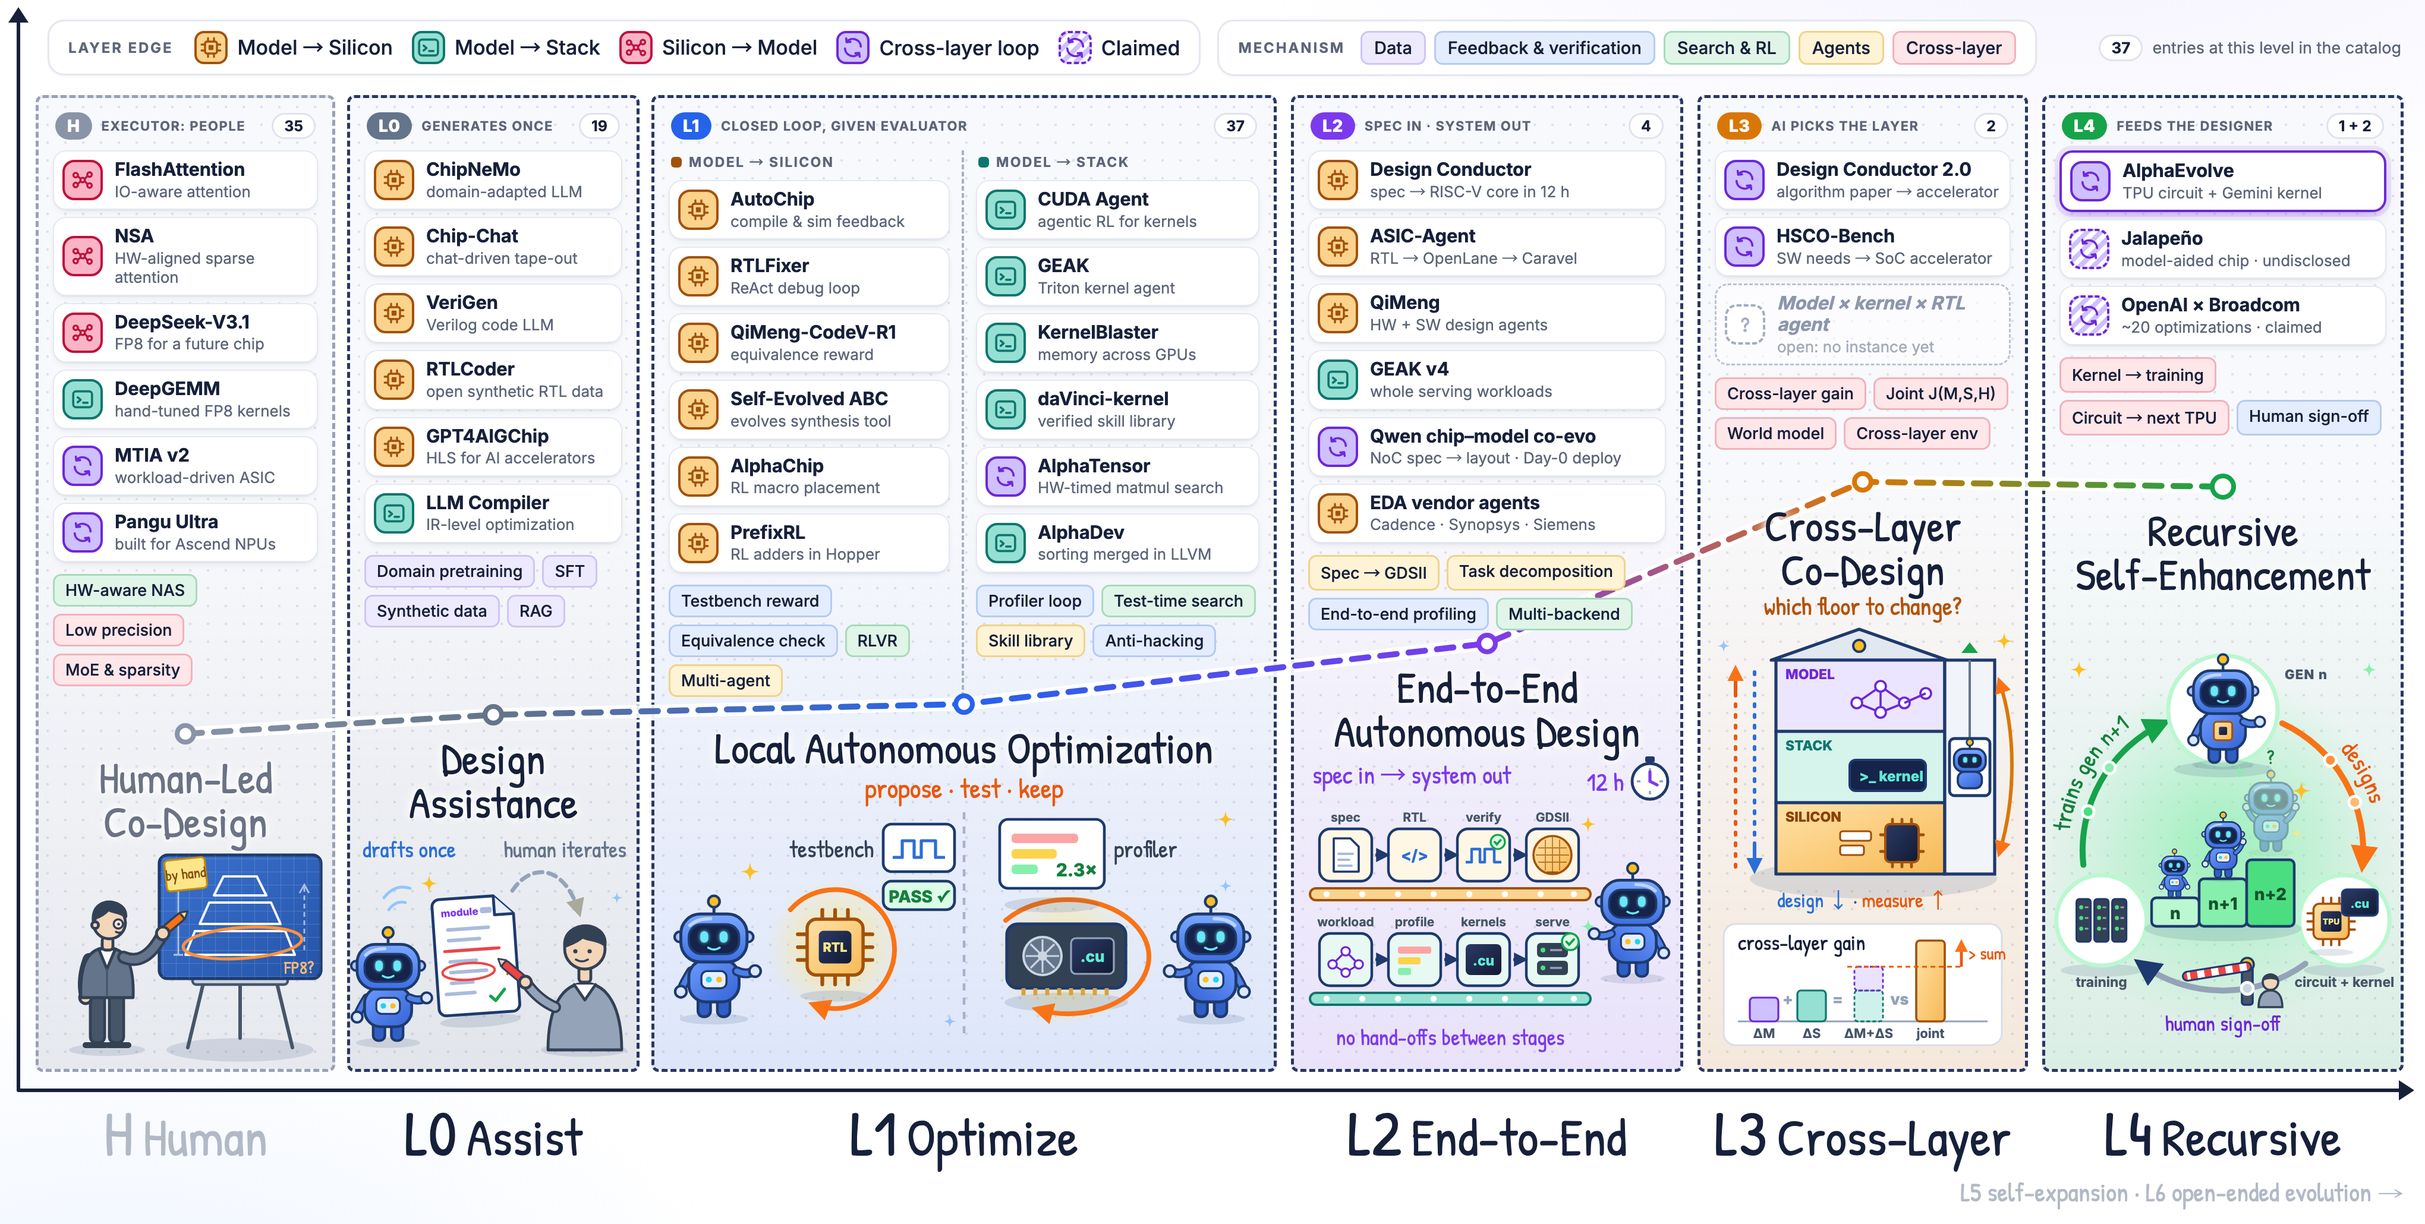
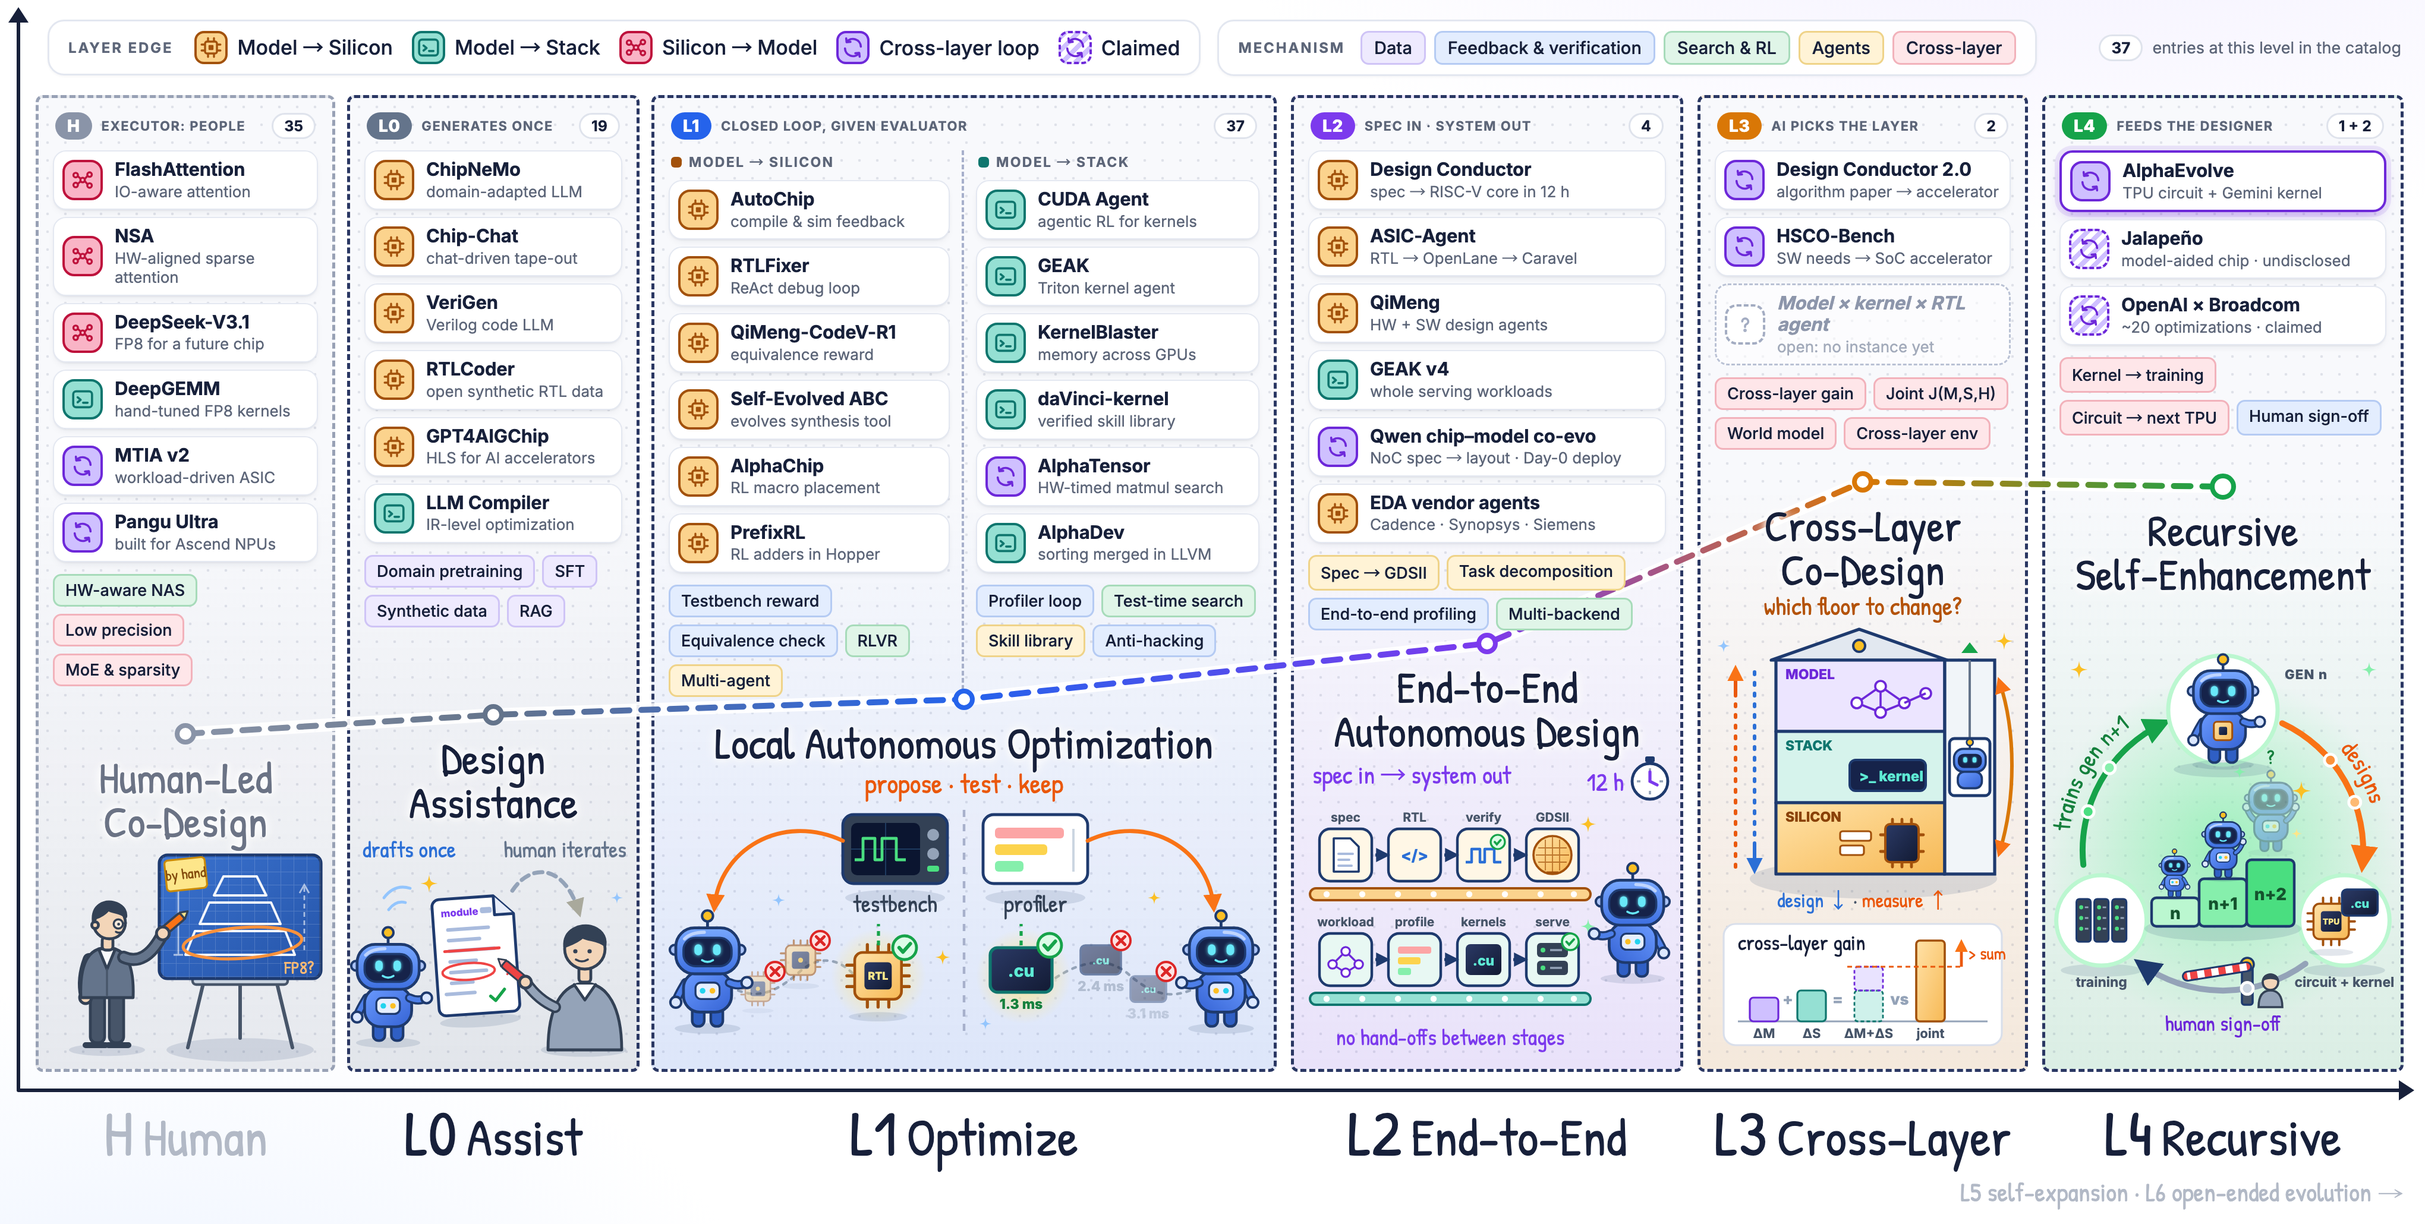
Redraw the L1 scene in Figure 1 as candidate search
Each side shows a stream of candidates (RTL chips, .cu kernels with
timings) rejected until one passes the testbench or profiler, with
feedback arcs back to the robots.

Changed region(s): [[0.2801, 0.5592, 0.5292, 0.8699], [0.4669, 0.5282, 0.5292, 0.5592]]

diff --git a/scripts/figures/overview.html b/scripts/figures/overview.html
@@ -402,47 +402,57 @@ const SCENES = {
       <circle cx="145" cy="131" r="5" fill="#f3d5b8"/>
     </g>
   </svg>`,
-  optimize: () => `<svg width="500" height="232" viewBox="0 0 500 232">
+  optimize: () => {
+    const no = (x, y) => `<g transform="translate(${x},${y})"><circle r="8" fill="#fee2e2" stroke="#dc2626" stroke-width="2"/><path d="M-3.4 -3.4l6.8 6.8M3.4 -3.4l-6.8 6.8" stroke="#dc2626" stroke-width="2.4" stroke-linecap="round"/></g>`;
+    const yes = (x, y) => `<g transform="translate(${x},${y})"><circle r="10" fill="#dcfce7" stroke="#16a34a" stroke-width="2.4"/><path d="M-4.6 0l3.2 3.6 6.2-7" stroke="#16a34a" stroke-width="3" fill="none" stroke-linecap="round" stroke-linejoin="round"/></g>`;
+    const kern = (x, y, w, ms, ok) => `<g transform="translate(${x},${y})">
+      <rect width="${w}" height="${w * 0.72}" rx="${w * 0.12}" fill="url(#gDie)" stroke="${ok ? '#0f766e' : NAVY}" stroke-width="${ok ? 2.6 : 1.8}"/>
+      <text x="${w / 2}" y="${w * 0.47}" text-anchor="middle" font-family="Inter" font-weight="800" font-size="${w * 0.27}" fill="#5eead4">.cu</text>
+      <text x="${w / 2}" y="${w * 0.72 + 14}" text-anchor="middle" font-family="Inter" font-weight="800" font-size="11.5" fill="${ok ? '#15803d' : '#94a3b8'}">${ms}</text></g>`;
+    return `<svg width="500" height="236" viewBox="0 0 500 236">
     <text x="250" y="22" text-anchor="middle" font-family="Patrick Hand" font-size="23" fill="#ea580c">propose · test · keep</text>
-    <path d="M250 34 V 222" stroke="#a7b0cb" stroke-width="2.2" stroke-dasharray="6 6"/>
-    <!-- Model → Silicon loop -->
-    <circle cx="142" cy="148" r="58" fill="url(#gGlow)"/>
-    ${chip(118, 124, 0.98, 'RTL')}
-    <path d="M104 116 A 50 50 0 1 1 124 196" fill="none" stroke="#f97316" stroke-width="4" stroke-linecap="round" marker-end="url(#ah-o)"/>
-    ${robot(6, 112, 0.96, { left: 'down', right: 'forward' })}
-    <g transform="translate(182,44)">
-      ${shadow(30, 66, 30)}
-      <rect width="60" height="40" rx="7" fill="#fff" stroke="${NAVY}" stroke-width="2.3"/>
-      <path d="M8 28 h8 v-14 h10 v14 h6 v-14 h12 v14 h8" fill="none" stroke="#2b6fd6" stroke-width="2.6" stroke-linejoin="round"/>
-      <rect x="0" y="48" width="60" height="24" rx="7" fill="#dcfce7" stroke="${NAVY}" stroke-width="2.3"/>
-      <text x="30" y="66" text-anchor="middle" font-family="Inter" font-weight="800" font-size="14" fill="#15803d">PASS ✓</text>
+    <path d="M250 36 V 228" stroke="#a7b0cb" stroke-width="2.2" stroke-dasharray="6 6"/>
+
+    <!-- Model → Silicon: candidates through a testbench -->
+    <g transform="translate(148,40)">
+      ${shadow(44, 70, 42)}
+      <rect width="88" height="58" rx="9" fill="#334155" stroke="${NAVY}" stroke-width="2.4"/>
+      <rect x="7" y="7" width="58" height="44" rx="5" fill="#0b1530"/>
+      <path d="M7 29h58M36 7v44" stroke="#1e3a5f" stroke-width="1"/>
+      <path d="M10 38 h7 v-18 h10 v18 h6 v-18 h12 v18 h8" fill="none" stroke="#4ade80" stroke-width="2.4" stroke-linejoin="round"/>
+      <circle cx="76" cy="17" r="5" fill="#94a3b8"/><circle cx="76" cy="33" r="5" fill="#94a3b8"/><rect x="71" y="43" width="10" height="5" rx="2" fill="#4ade80"/>
     </g>
-    <text x="174" y="72" text-anchor="end" font-family="Patrick Hand" font-size="20" fill="#334155">testbench</text>
-    <!-- Model → Stack loop -->
-    <circle cx="336" cy="156" r="60" fill="url(#gGlow)"/>
-    <g transform="translate(286,128)">
-      ${shadow(50, 66, 52)}
-      <rect width="100" height="54" rx="9" fill="#334155" stroke="${NAVY}" stroke-width="2.6"/>
-      <circle cx="30" cy="27" r="16" fill="#64748b" stroke="#cbd5e1" stroke-width="2"/>
-      <path d="M30 13 v28 M16 27 h28 M20 17 l20 20 M40 17 l-20 20" stroke="#cbd5e1" stroke-width="1.6"/>
-      <circle cx="30" cy="27" r="4" fill="#cbd5e1"/>
-      <rect x="54" y="12" width="36" height="30" rx="4" fill="url(#gDie)" stroke="#94a3b8" stroke-width="1.6"/>
-      <text x="72" y="32" text-anchor="middle" font-family="Inter" font-weight="800" font-size="13" fill="#5eead4">.cu</text>
-      <path d="M14 54 v6 M24 54 v6 M34 54 v6 M44 54 v6 M54 54 v6 M64 54 v6 M74 54 v6 M84 54 v6" stroke="#d6a243" stroke-width="3.4"/>
+    <text x="192" y="122" text-anchor="middle" font-family="Patrick Hand" font-size="20" fill="#334155">testbench</text>
+    <path d="M60 188 C 80 196, 96 186, 112 172 S 146 160, 160 178" fill="none" stroke="#94a3b8" stroke-width="2.2" stroke-dasharray="3 5" stroke-linecap="round"/>
+    <g opacity=".42">${chip(66, 176, 0.44)}</g>${no(91, 172)}
+    <g opacity=".55">${chip(100, 150, 0.52)}</g>${no(129, 146)}
+    <circle cx="178" cy="176" r="40" fill="url(#gGlow)"/>
+    ${chip(158, 156, 0.82, 'RTL')}${yes(200, 152)}
+    <path d="M178 150 V 132" stroke="#16a34a" stroke-width="2.6" stroke-dasharray="4 4"/>
+    <path d="M148 62 C 96 38, 44 70, 40 118" fill="none" stroke="#f97316" stroke-width="3.4" stroke-linecap="round" marker-end="url(#ah-o)"/>
+    ${robot(2, 128, 0.92, { left: 'down', right: 'forward' })}
+
+    <!-- Model → Stack: kernels through a profiler -->
+    <g transform="translate(266,40)">
+      ${shadow(44, 70, 42)}
+      <rect width="88" height="58" rx="9" fill="#fff" stroke="${NAVY}" stroke-width="2.4"/>
+      <rect x="10" y="11" width="58" height="9" rx="3" fill="#fca5a5"/>
+      <rect x="10" y="25" width="44" height="9" rx="3" fill="#fcd34d"/>
+      <rect x="10" y="39" width="24" height="9" rx="3" fill="#86efac"/>
+      <path d="M76 12v36" stroke="#cbd5e1" stroke-width="2"/>
     </g>
-    <path d="M285 125 A 68 48 0 1 1 312 200" fill="none" stroke="#f97316" stroke-width="4" stroke-linecap="round" marker-end="url(#ah-o)"/>
-    ${robot(424, 112, 0.96, { left: 'down', right: 'forward', flip: true })}
-    <g transform="translate(280,40)">
-      ${shadow(44, 72, 40)}
-      <rect width="88" height="58" rx="7" fill="#fff" stroke="${NAVY}" stroke-width="2.3"/>
-      <rect x="10" y="12" width="56" height="8" rx="3" fill="#fca5a5"/>
-      <rect x="10" y="25" width="38" height="8" rx="3" fill="#fcd34d"/>
-      <rect x="10" y="38" width="22" height="8" rx="3" fill="#86efac"/>
-      <text x="82" y="48" text-anchor="end" font-family="Inter" font-weight="800" font-size="15" fill="#15803d">2.3×</text>
-    </g>
-    <text x="376" y="72" font-family="Patrick Hand" font-size="20" fill="#334155">profiler</text>
-    ${sparkle(70, 84, 0.9)} ${sparkle(238, 210, 0.6, '#93c5fd')} ${sparkle(470, 40, 0.8)} ${sparkle(470, 96, 0.6, '#93c5fd')}
-  </svg>`,
+    <text x="310" y="122" text-anchor="middle" font-family="Patrick Hand" font-size="20" fill="#334155">profiler</text>
+    <path d="M440 188 C 420 196, 404 188, 388 174 S 350 162, 326 178" fill="none" stroke="#94a3b8" stroke-width="2.2" stroke-dasharray="3 5" stroke-linecap="round"/>
+    <g opacity=".42">${kern(390, 176, 30, '3.1 ms', false)}</g>${no(420, 172)}
+    <g opacity=".6">${kern(348, 150, 34, '2.4 ms', false)}</g>${no(382, 146)}
+    <circle cx="300" cy="176" r="40" fill="url(#gGlow)"/>
+    ${kern(272, 152, 52, '1.3 ms', true)}${yes(322, 150)}
+    <path d="M298 150 V 132" stroke="#16a34a" stroke-width="2.6" stroke-dasharray="4 4"/>
+    <path d="M354 62 C 406 38, 456 70, 460 118" fill="none" stroke="#f97316" stroke-width="3.4" stroke-linecap="round" marker-end="url(#ah-o)"/>
+    ${robot(434, 128, 0.92, { left: 'down', right: 'forward', flip: true })}
+    ${sparkle(232, 160, 0.7)} ${sparkle(268, 216, 0.55, '#93c5fd')} ${sparkle(94, 112, 0.6, '#93c5fd')} ${sparkle(410, 110, 0.6)}
+  </svg>`;
+  },
   e2e: () => {
     const XS = [14, 72, 130, 188];
     const tile = (x, y, fill, inner, label) => `

diff --git a/README.md b/README.md
@@ -31,7 +31,7 @@
 Every model runs on a machine it did not design. That is starting to change: language models now write RTL, tune kernels, orchestrate EDA flows and help design the chips that train and serve them. **Co-evolution** treats the model (M), the software stack (S) and the silicon (H) as three layers that keep rewriting each other's objectives: hardware constraints shape the next model, model demands shape the next chip, and every layer chases a target that the other layers have moved. The question this catalog tracks is how far each piece of work pushes that loop around, and who closes it.
 
 <div align="center">
-  <img src="./assets/overview.png" width="100%" alt="Overview of model–stack–silicon co-evolution by autonomy level. Columns from left to right: human-led co-design (FlashAttention, NSA, DeepSeek-V3.1, DeepGEMM, MTIA v2, Pangu Ultra); L0 design assistance (ChipNeMo, Chip-Chat, VeriGen, RTLCoder, GPT4AIGChip, LLM Compiler); L1 local autonomous optimization, split into Model to Silicon (AutoChip, RTLFixer, QiMeng-CodeV-R1, Self-Evolved ABC, AlphaChip, PrefixRL) and Model to Stack (CUDA Agent, GEAK, KernelBlaster, daVinci-kernel, AlphaTensor, AlphaDev); L2 end-to-end autonomous design (Design Conductor, ASIC-Agent, QiMeng, GEAK v4, Qwen chip–model co-evolution, EDA vendor agents); L3 cross-layer co-design (Design Conductor 2.0, HSCO-Bench, and an open slot for a joint model, kernel and RTL agent); L4 recursive self-enhancement (AlphaEvolve, plus Jalapeño and OpenAI with Broadcom as claimed or undisclosed). Each column lists its key mechanisms as colored chips and ends in an illustration: an engineer marking up a blueprint, a robot handing a one-shot RTL draft to a human reviewer with a red pen, two propose-test-keep loops, a two-lane spec-to-silicon factory, a robot riding an elevator between the model, stack and silicon floors, and a recursive loop from model to circuit and kernel to training and back through a human sign-off barrier, with generations n, n+1 and a faint n+2 climbing a staircase in its center. A dashed line rises from left to right. L5 self-expansion and L6 open-ended evolution lie beyond the axis.">
+  <img src="./assets/overview.png" width="100%" alt="Overview of model–stack–silicon co-evolution by autonomy level. Columns from left to right: human-led co-design (FlashAttention, NSA, DeepSeek-V3.1, DeepGEMM, MTIA v2, Pangu Ultra); L0 design assistance (ChipNeMo, Chip-Chat, VeriGen, RTLCoder, GPT4AIGChip, LLM Compiler); L1 local autonomous optimization, split into Model to Silicon (AutoChip, RTLFixer, QiMeng-CodeV-R1, Self-Evolved ABC, AlphaChip, PrefixRL) and Model to Stack (CUDA Agent, GEAK, KernelBlaster, daVinci-kernel, AlphaTensor, AlphaDev); L2 end-to-end autonomous design (Design Conductor, ASIC-Agent, QiMeng, GEAK v4, Qwen chip–model co-evolution, EDA vendor agents); L3 cross-layer co-design (Design Conductor 2.0, HSCO-Bench, and an open slot for a joint model, kernel and RTL agent); L4 recursive self-enhancement (AlphaEvolve, plus Jalapeño and OpenAI with Broadcom as claimed or undisclosed). Each column lists its key mechanisms as colored chips and ends in an illustration: an engineer marking up a blueprint, a robot handing a one-shot RTL draft to a human reviewer with a red pen, two propose-test-keep searches where candidate RTL chips and kernels are rejected until one passes the testbench or profiler, a two-lane spec-to-silicon factory, a robot riding an elevator between the model, stack and silicon floors, and a recursive loop from model to circuit and kernel to training and back through a human sign-off barrier, with generations n, n+1 and a faint n+2 climbing a staircase in its center. A dashed line rises from left to right. L5 self-expansion and L6 open-ended evolution lie beyond the axis.">
   <br>
   <em><b>Figure 1.</b> The co-evolution landscape by R&D autonomy level, from human-led co-design through L4 recursive self-enhancement. Tiles mark the layer edge each work acts on; chips name the mechanisms that carry each level; the number in each column header counts that level's entries in this catalog. The higher the level, the fewer the instances: 37 works at L1, 4 at L2, 2 at L3 and one public case at L4.</em>
 </div>

diff --git a/data/readme/intro.md b/data/readme/intro.md
@@ -3,7 +3,7 @@
 Every model runs on a machine it did not design. That is starting to change: language models now write RTL, tune kernels, orchestrate EDA flows and help design the chips that train and serve them. **Co-evolution** treats the model (M), the software stack (S) and the silicon (H) as three layers that keep rewriting each other's objectives: hardware constraints shape the next model, model demands shape the next chip, and every layer chases a target that the other layers have moved. The question this catalog tracks is how far each piece of work pushes that loop around, and who closes it.
 
 <div align="center">
-  <img src="./assets/overview.png" width="100%" alt="Overview of model–stack–silicon co-evolution by autonomy level. Columns from left to right: human-led co-design (FlashAttention, NSA, DeepSeek-V3.1, DeepGEMM, MTIA v2, Pangu Ultra); L0 design assistance (ChipNeMo, Chip-Chat, VeriGen, RTLCoder, GPT4AIGChip, LLM Compiler); L1 local autonomous optimization, split into Model to Silicon (AutoChip, RTLFixer, QiMeng-CodeV-R1, Self-Evolved ABC, AlphaChip, PrefixRL) and Model to Stack (CUDA Agent, GEAK, KernelBlaster, daVinci-kernel, AlphaTensor, AlphaDev); L2 end-to-end autonomous design (Design Conductor, ASIC-Agent, QiMeng, GEAK v4, Qwen chip–model co-evolution, EDA vendor agents); L3 cross-layer co-design (Design Conductor 2.0, HSCO-Bench, and an open slot for a joint model, kernel and RTL agent); L4 recursive self-enhancement (AlphaEvolve, plus Jalapeño and OpenAI with Broadcom as claimed or undisclosed). Each column lists its key mechanisms as colored chips and ends in an illustration: an engineer marking up a blueprint, a robot handing a one-shot RTL draft to a human reviewer with a red pen, two propose-test-keep loops, a two-lane spec-to-silicon factory, a robot riding an elevator between the model, stack and silicon floors, and a recursive loop from model to circuit and kernel to training and back through a human sign-off barrier, with generations n, n+1 and a faint n+2 climbing a staircase in its center. A dashed line rises from left to right. L5 self-expansion and L6 open-ended evolution lie beyond the axis.">
+  <img src="./assets/overview.png" width="100%" alt="Overview of model–stack–silicon co-evolution by autonomy level. Columns from left to right: human-led co-design (FlashAttention, NSA, DeepSeek-V3.1, DeepGEMM, MTIA v2, Pangu Ultra); L0 design assistance (ChipNeMo, Chip-Chat, VeriGen, RTLCoder, GPT4AIGChip, LLM Compiler); L1 local autonomous optimization, split into Model to Silicon (AutoChip, RTLFixer, QiMeng-CodeV-R1, Self-Evolved ABC, AlphaChip, PrefixRL) and Model to Stack (CUDA Agent, GEAK, KernelBlaster, daVinci-kernel, AlphaTensor, AlphaDev); L2 end-to-end autonomous design (Design Conductor, ASIC-Agent, QiMeng, GEAK v4, Qwen chip–model co-evolution, EDA vendor agents); L3 cross-layer co-design (Design Conductor 2.0, HSCO-Bench, and an open slot for a joint model, kernel and RTL agent); L4 recursive self-enhancement (AlphaEvolve, plus Jalapeño and OpenAI with Broadcom as claimed or undisclosed). Each column lists its key mechanisms as colored chips and ends in an illustration: an engineer marking up a blueprint, a robot handing a one-shot RTL draft to a human reviewer with a red pen, two propose-test-keep searches where candidate RTL chips and kernels are rejected until one passes the testbench or profiler, a two-lane spec-to-silicon factory, a robot riding an elevator between the model, stack and silicon floors, and a recursive loop from model to circuit and kernel to training and back through a human sign-off barrier, with generations n, n+1 and a faint n+2 climbing a staircase in its center. A dashed line rises from left to right. L5 self-expansion and L6 open-ended evolution lie beyond the axis.">
   <br>
   <em><b>Figure 1.</b> The co-evolution landscape by R&D autonomy level, from human-led co-design through L4 recursive self-enhancement. Tiles mark the layer edge each work acts on; chips name the mechanisms that carry each level; the number in each column header counts that level's entries in this catalog. The higher the level, the fewer the instances: 37 works at L1, 4 at L2, 2 at L3 and one public case at L4.</em>
 </div>
